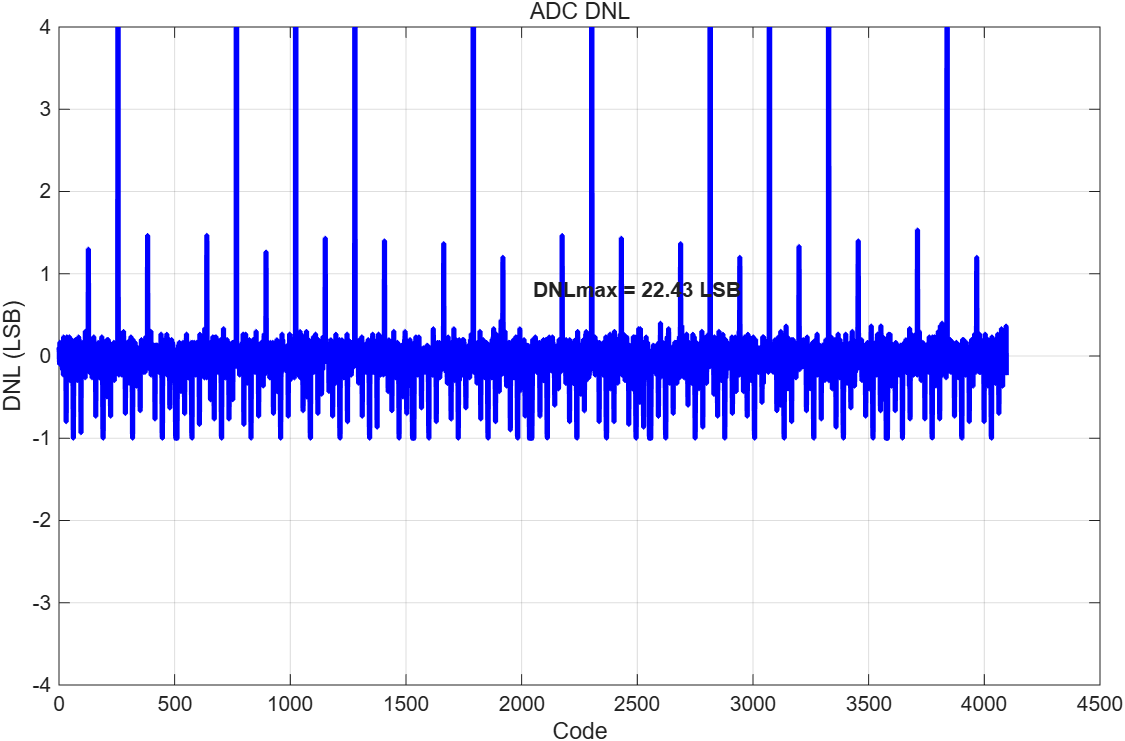
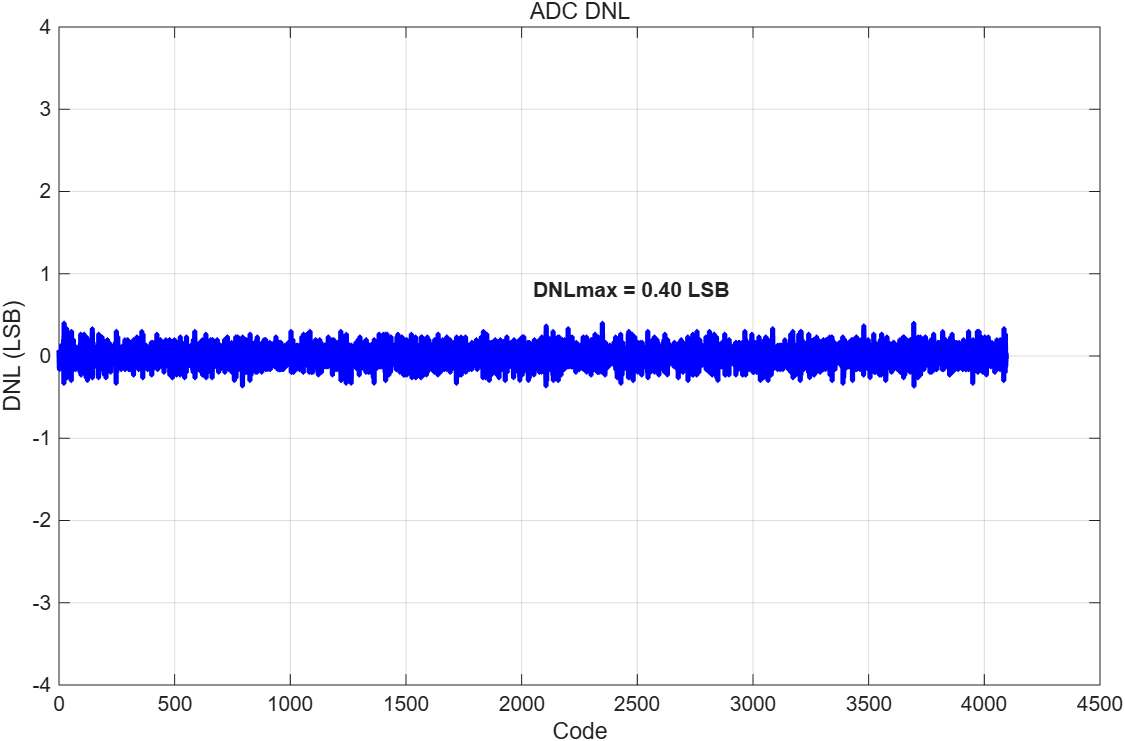
finish

Changed region(s): [[0.0311, 0.031, 0.9022, 0.4656], [0.0311, 0.4966, 0.9022, 0.5897]]

diff --git a/testbench/simBwaAdcStaticTest.m b/testbench/simBwaAdcStaticTest.m
@@ -45,20 +45,3 @@ drawingDnl = 'drawing/bwa-adc-dnl-histogram-method.png';
 exportgraphics( dnlObj, drawingDnl );
 drawingInl = 'drawing/bwa-adc-inl-histogram-method.png';
 exportgraphics( inlObj, drawingInl );
-
-%% process simulation data with definition
-
-conversionalAdcStaticPerformanceMetrics = ConventionalProcessAdcStaticData( p, samples, idealDacOutput );
-
-%% plot simulation results
-
-[dnlObjConversional, inlObjConversional] = plotAdcStaticSimulationResult( p, conversionalAdcStaticPerformanceMetrics );
-
-%% export plots
-
-drawingDnlConversional = 'drawing/bwa-adc-dnl-definition-method.png';
-exportgraphics( dnlObjConversional, drawingDnlConversional );
-drawingInlConversional = 'drawing/bwa-adc-inl-definiton-method.png';
-exportgraphics( inlObjConversional, drawingInlConversional );
-
-

diff --git a/testbench/simCbwAdcStaticTest.m b/testbench/simCbwAdcStaticTest.m
@@ -46,19 +46,3 @@ exportgraphics( dnlObj, drawingDnl );
 drawingInl = 'drawing/cbw-adc-inl-histogram-method.png';
 exportgraphics( inlObj, drawingInl );
 
-%% process simulation data with definition
-
-conversionalAdcStaticPerformanceMetrics = ConventionalProcessAdcStaticData( p, samples, idealDacOutput );
-
-%% plot simulation results
-
-[dnlObjConversional, inlObjConversional] = plotAdcStaticSimulationResult( p, conversionalAdcStaticPerformanceMetrics );
-
-%% export plots
-
-drawingDnlConversional = 'drawing/cbw-adc-dnl-definition-method.png';
-exportgraphics( dnlObjConversional, drawingDnlConversional );
-drawingInlConversional = 'drawing/cbw-adc-inl-definiton-method.png';
-exportgraphics( inlObjConversional, drawingInlConversional );
-
-

diff --git a/testbench/simSbwAdcStaticTest.m b/testbench/simSbwAdcStaticTest.m
@@ -46,19 +46,5 @@ exportgraphics( dnlObj, drawingDnl );
 drawingInl = 'drawing/sbw-adc-inl-histogram-method.png';
 exportgraphics( inlObj, drawingInl );
 
-%% process simulation data with definition
-
-conversionalAdcStaticPerformanceMetrics = ConventionalProcessAdcStaticData( p, samples, idealDacOutput );
-
-%% plot simulation results
-
-[dnlObjConversional, inlObjConversional] = plotAdcStaticSimulationResult( p, conversionalAdcStaticPerformanceMetrics );
-
-%% export plots
-
-drawingDnlConversional = 'drawing/sbw-adc-dnl-definition-method.png';
-exportgraphics( dnlObjConversional, drawingDnlConversional );
-drawingInlConversional = 'drawing/sbw-adc-inl-definiton-method.png';
-exportgraphics( inlObjConversional, drawingInlConversional );
 
 

diff --git a/sim-config/configDynamicTest.m b/sim-config/configDynamicTest.m
@@ -10,6 +10,8 @@ function p = configDynamicTest
   p.testInputBin = [ 1, 7, 11, 31, 51, 103, 205, 307, 409 ];
   p.lenInputSignal = length(p.testInputBin);
   p.VDD = 1.2;
+  p.k = 1.380649e-23;   
+  p.temperature = 300;  
 
   %% Monte Carlo specification
 
@@ -24,7 +26,7 @@ function p = configDynamicTest
   p.smallestCap = 50e-15;
   p.numOfSmallestCap = 1;
   p.unitCap = p.smallestCap * p.numOfSmallestCap;
-  p.mismatchStd = 0.05;
+  p.mismatchStd = 0;
   p.capPar = 0;
   p.capParMain = 0;
   p.capParSub = 0;

diff --git a/models/bwaSarAdc.m b/models/bwaSarAdc.m
@@ -7,7 +7,7 @@ function conversionResult = bwaSarAdc( sample, p, capArray )
   %% calculate thermal noise
 
   capTotal = sum( capArray.main ) + sum( capArray.sub );
-  thermalNoiseStd = sqrt( 4.141947e-21 / capTotal );
+  thermalNoiseStd = sqrt( p.k * p.temperature / capTotal );
   thermalNoise = normrnd( 0, thermalNoiseStd );
 
   %% inject thermal noise

diff --git a/function/ConventionalProcessAdcStaticData.m b/function/ConventionalProcessAdcStaticData.m
@@ -8,7 +8,7 @@ function adcStaticPerformanceMetrics = ConventionalProcessAdcStaticData( p, samp
 
   transitionIndex = find( diff( conversionResult ) ~= 0 );
   transitionVoltage = ( samples.data( transitionIndex ) + samples.data( transitionIndex + 1 ) ) / 2;
-  
+
   %% calculate code width
 
   codeWidth = diff( transitionVoltage );

diff --git a/models/cbwSarAdc.m b/models/cbwSarAdc.m
@@ -7,7 +7,7 @@ function conversionResult = cbwSarAdc( sample, p, capArray )
   %% calculate thermal noise
 
   capTotal = sum(capArray);
-  thermalNoiseStd = sqrt( 4.141947e-21 / capTotal );
+  thermalNoiseStd = sqrt( p.k * p.temperature / capTotal );
   thermalNoise = normrnd( 0, thermalNoiseStd );
 
   %% inject thermal noise

diff --git a/models/sbwSarAdc.m b/models/sbwSarAdc.m
@@ -7,7 +7,7 @@ function conversionResult = sbwSarAdc( sample, p, capArray )
   %% calculate thermal noise
 
   capTotal = sum(capArray);
-  thermalNoiseStd = sqrt( 4.141947e-21 / capTotal );
+  thermalNoiseStd = sqrt( p.k * p.temperature / capTotal );
   thermalNoise = normrnd( 0, thermalNoiseStd );
 
   %% inject thermal noise

diff --git a/testbench/simBwaSarAdc.m b/testbench/simBwaSarAdc.m
@@ -13,8 +13,7 @@ p = configDynamicTest();
 
 conversionResult = nan( p.fftLen, p.adcResolution );
 idealDacOutput = nan( p.fftLen, 1 );
-sndrResult = nan( p.lenInputSignal, 1 );
-
+ 
 %% generate samples
 
 samples = genSamples( p );

diff --git a/function/plotAdcDynamicSimulationResult.m b/function/plotAdcDynamicSimulationResult.m
@@ -14,5 +14,5 @@ function obj = plotAdcDynamicSimulationResult( p, adcDynamicPerformanceMetrics )
 
   noiseFloor = - ( 6.02 * p.adcResolution + 1.76 ) - 10 * log10( p.fftLen / 2 );
   ylim( [ noiseFloor - 10, 5 ] );
-  
+
 end

diff --git a/testbench/simCbwSarAdc.m b/testbench/simCbwSarAdc.m
@@ -13,7 +13,6 @@ p = configDynamicTest();
 
 conversionResult = nan( p.fftLen, p.adcResolution );
 idealDacOutput = nan( p.fftLen, 1 );
-sndrResult = nan( p.lenInputSignal, 1 );
 
 %% generate samples
 

diff --git a/testbench/simSbwSarAdc.m b/testbench/simSbwSarAdc.m
@@ -13,7 +13,6 @@ p = configDynamicTest();
 
 conversionResult = nan( p.fftLen, p.adcResolution );
 idealDacOutput = nan( p.fftLen, 1 );
-sndrResult = nan( p.lenInputSignal, 1 );
 
 %% generate samples
 
